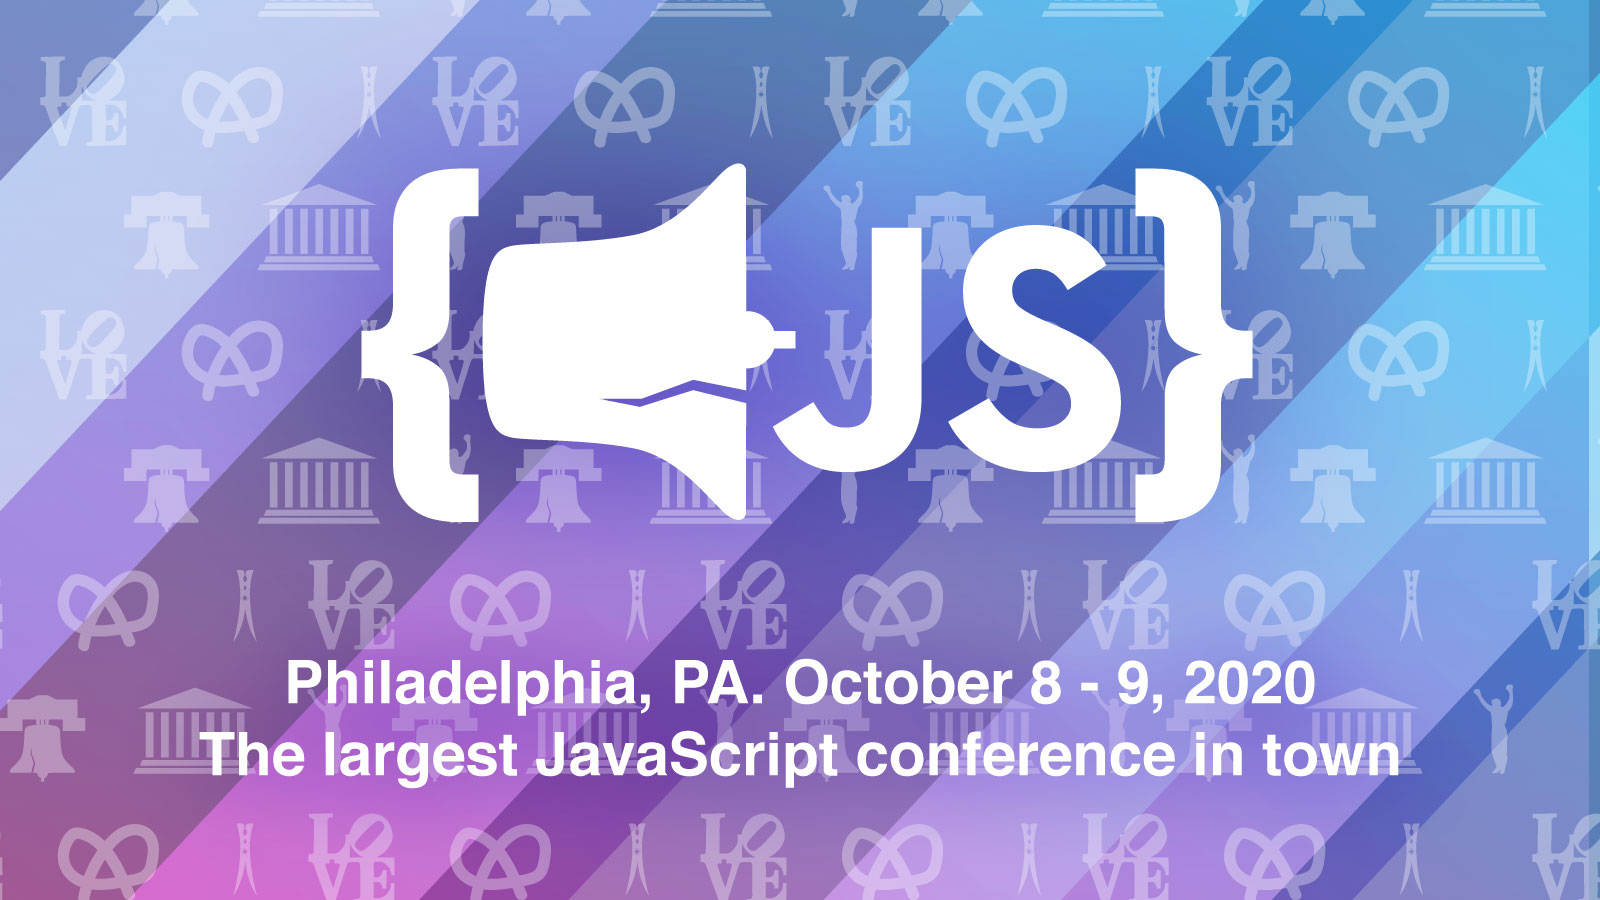
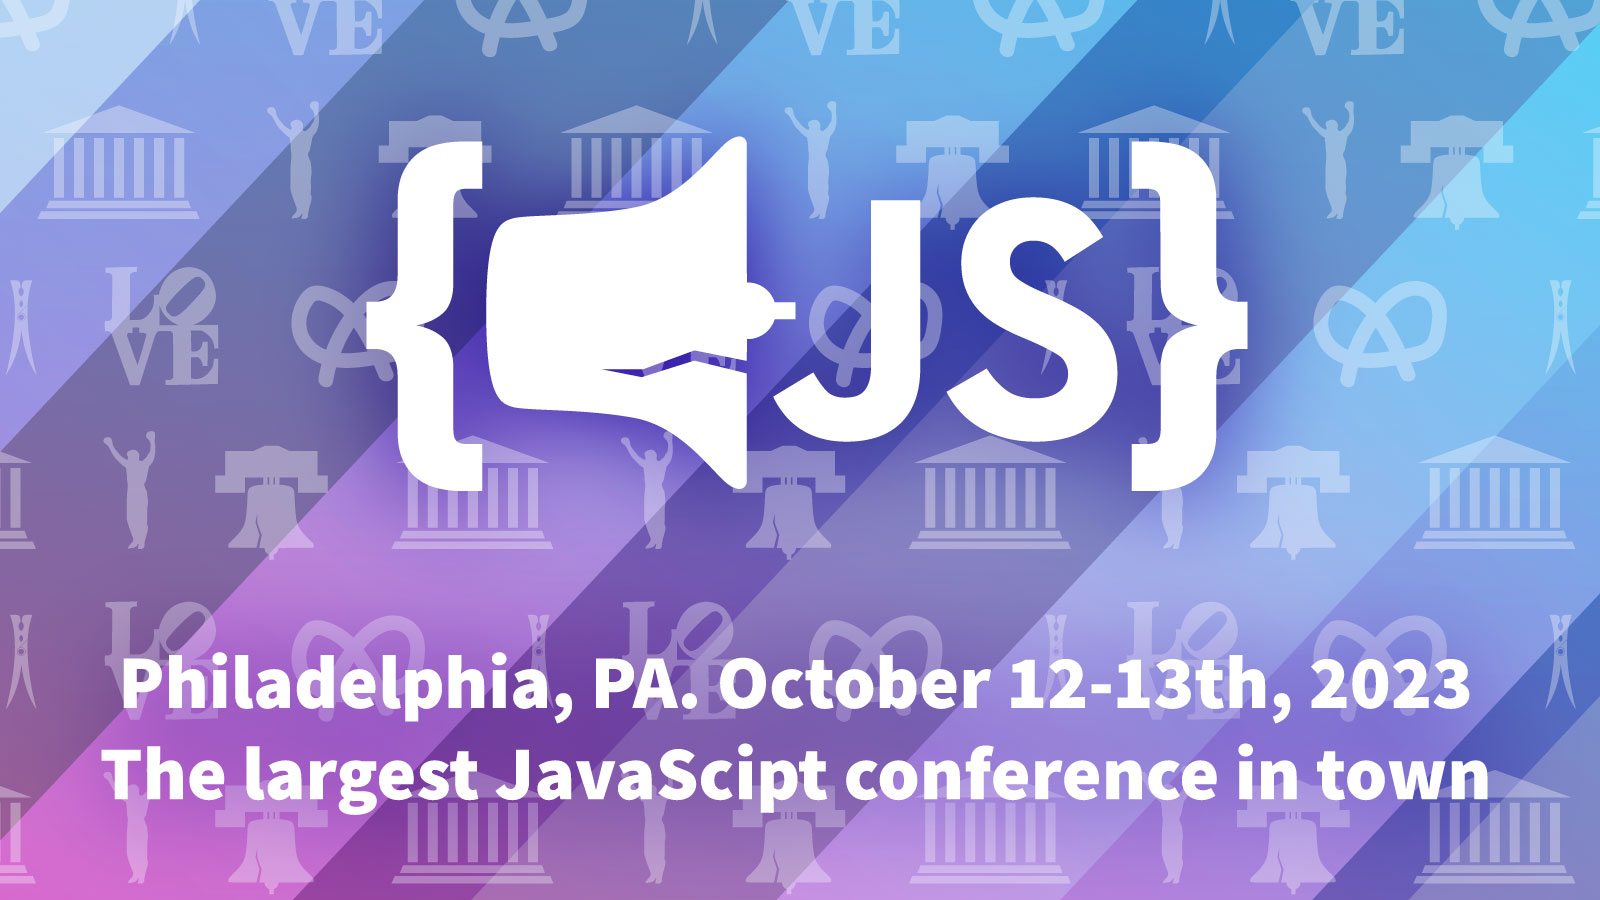
link and social image updates

diff --git a/src/pages/home-page.html b/src/pages/home-page.html
@@ -150,8 +150,8 @@
           <p><a href="/blog/posts/2023-return-announcement/">Liberty JS is returning: October 12th and 13th 2023</a></p>
         </div>
 
-        <!-- <div class="action-buttons" layout horizontal center-justified wrap>
-          <a href="https://www.papercall.io/libertyjs-2020" target="_blank">
+        <div class="action-buttons" layout horizontal center-justified wrap>
+          <a href="https://www.papercall.io/libertyjs-2023" target="_blank">
             <paper-button
               ga-on="click"
               ga-event-category="cfp"
@@ -163,7 +163,7 @@
               {$ callForSpeakers $}
             </paper-button>
           </a>
-        </div> -->
+        </div>
 
         <!-- <div class="action-buttons" layout horizontal center-justified wrap>
           <a href="https://libertyjs.ticketspice.com/libertyjs-2020-attendee" target="_blank">
